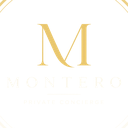
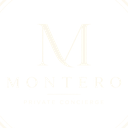
Знак возвращён в прежний вид: без золотой буквы

Changed region(s): [[0.2812, 0.1875, 0.7188, 0.5312], [0.9062, 0.0, 1.0, 0.0938], [0.0, 0.0, 0.0938, 0.0938]]

diff --git a/index.html b/index.html
@@ -18,8 +18,8 @@
 <header class="nav" id="nav">
   <div class="nav-in">
     <a class="brand" href="#home" data-scroll aria-label="На главную" data-i18n-aria="aria.home">
-      <img class="brand-mark" src="assets/img/mark-128.png?v=9cc3e350"
-           srcset="assets/img/mark-72.png?v=7eb68a45 72w, assets/img/mark-88.png?v=e411ed14 88w, assets/img/mark-108.png?v=9b038e77 108w, assets/img/mark-128.png?v=9cc3e350 128w, assets/img/mark-144.png?v=fd5eaf6e 144w, assets/img/mark-160.png?v=9f68d33b 160w, assets/img/mark-200.png?v=2bc2275a 200w, assets/img/mark-260.png?v=de2b7351 260w, assets/img/mark-360.png?v=8128c768 360w"
+      <img class="brand-mark" src="assets/img/mark-128.png?v=c13c732f"
+           srcset="assets/img/mark-72.png?v=ab42cbcd 72w, assets/img/mark-88.png?v=f36796f8 88w, assets/img/mark-108.png?v=aa43a039 108w, assets/img/mark-128.png?v=c13c732f 128w, assets/img/mark-144.png?v=ebd5b6e3 144w, assets/img/mark-160.png?v=f1493c42 160w, assets/img/mark-200.png?v=17208ef4 200w, assets/img/mark-260.png?v=62bd425a 260w, assets/img/mark-360.png?v=e221a537 360w"
            sizes="(max-width:540px) 60px, 72px"
            alt="Montero Private Concierge" width="512" height="512" decoding="async">
     </a>
@@ -790,8 +790,8 @@
         <p data-i18n="conc.p3">Конфиденциально. Персонально. Без лишних звонков, переписок и потери времени.</p>
         <p class="conc-start" data-i18n-html="conc.p4"><b>Всё начинается с одного сообщения.</b><br>Расскажите, что вам нужно. Даже если вы пока не знаете, кто именно может решить ваш вопрос, — это уже наша задача.</p>
         <div class="conc-sig">
-          <img class="seal-lg" src="assets/img/seal-160.png?v=9f68d33b"
-           srcset="assets/img/seal-88.png?v=e411ed14 88w, assets/img/seal-120.png?v=57e8629f 120w, assets/img/seal-160.png?v=9f68d33b 160w, assets/img/seal-200.png?v=2bc2275a 200w, assets/img/seal-260.png?v=de2b7351 260w, assets/img/seal-360.png?v=8128c768 360w, assets/img/seal-512.png?v=c311cb21 512w"
+          <img class="seal-lg" src="assets/img/seal-160.png?v=f1493c42"
+           srcset="assets/img/seal-88.png?v=f36796f8 88w, assets/img/seal-120.png?v=26739ba4 120w, assets/img/seal-160.png?v=f1493c42 160w, assets/img/seal-200.png?v=17208ef4 200w, assets/img/seal-260.png?v=62bd425a 260w, assets/img/seal-360.png?v=e221a537 360w, assets/img/seal-512.png?v=0a78fb4d 512w"
            sizes="84px"
            alt="" width="512" height="512" decoding="async">
           <span class="conc-sig-t"><b data-i18n-html="conc.signName"><span class="sl">№1 консьерж-сервис от Северной</span> <span class="sl">до Южной Америки</span></b></span>
@@ -879,8 +879,8 @@
 <footer class="foot">
   <div class="shell foot-in">
     <div class="foot-brand">
-      <img class="seal" src="assets/img/seal-160.png?v=9f68d33b"
-           srcset="assets/img/seal-88.png?v=e411ed14 88w, assets/img/seal-120.png?v=57e8629f 120w, assets/img/seal-160.png?v=9f68d33b 160w, assets/img/seal-200.png?v=2bc2275a 200w, assets/img/seal-260.png?v=de2b7351 260w, assets/img/seal-360.png?v=8128c768 360w, assets/img/seal-512.png?v=c311cb21 512w"
+      <img class="seal" src="assets/img/seal-160.png?v=f1493c42"
+           srcset="assets/img/seal-88.png?v=f36796f8 88w, assets/img/seal-120.png?v=26739ba4 120w, assets/img/seal-160.png?v=f1493c42 160w, assets/img/seal-200.png?v=17208ef4 200w, assets/img/seal-260.png?v=62bd425a 260w, assets/img/seal-360.png?v=e221a537 360w, assets/img/seal-512.png?v=0a78fb4d 512w"
            sizes="44px"
            alt="" width="512" height="512" decoding="async">
       <span data-i18n-html="foot.brand">Время <em>—</em> высшая форма роскоши, о которой мы позаботимся</span>
@@ -897,8 +897,8 @@
 <!-- ════════ ВЫБОР ЯЗЫКА ════════ -->
 <div class="lang-gate" id="langGate" role="dialog" aria-modal="true" aria-labelledby="langTitle" hidden>
   <div class="lang-in">
-    <img class="lang-seal" src="assets/img/seal-160.png?v=9f68d33b"
-           srcset="assets/img/seal-88.png?v=e411ed14 88w, assets/img/seal-120.png?v=57e8629f 120w, assets/img/seal-160.png?v=9f68d33b 160w, assets/img/seal-200.png?v=2bc2275a 200w, assets/img/seal-260.png?v=de2b7351 260w, assets/img/seal-360.png?v=8128c768 360w, assets/img/seal-512.png?v=c311cb21 512w"
+    <img class="lang-seal" src="assets/img/seal-160.png?v=f1493c42"
+           srcset="assets/img/seal-88.png?v=f36796f8 88w, assets/img/seal-120.png?v=26739ba4 120w, assets/img/seal-160.png?v=f1493c42 160w, assets/img/seal-200.png?v=17208ef4 200w, assets/img/seal-260.png?v=62bd425a 260w, assets/img/seal-360.png?v=e221a537 360w, assets/img/seal-512.png?v=0a78fb4d 512w"
            sizes="62px"
            alt="" width="512" height="512" decoding="async">
     <h2 id="langTitle" data-i18n="lang.title">Выберите язык</h2>
